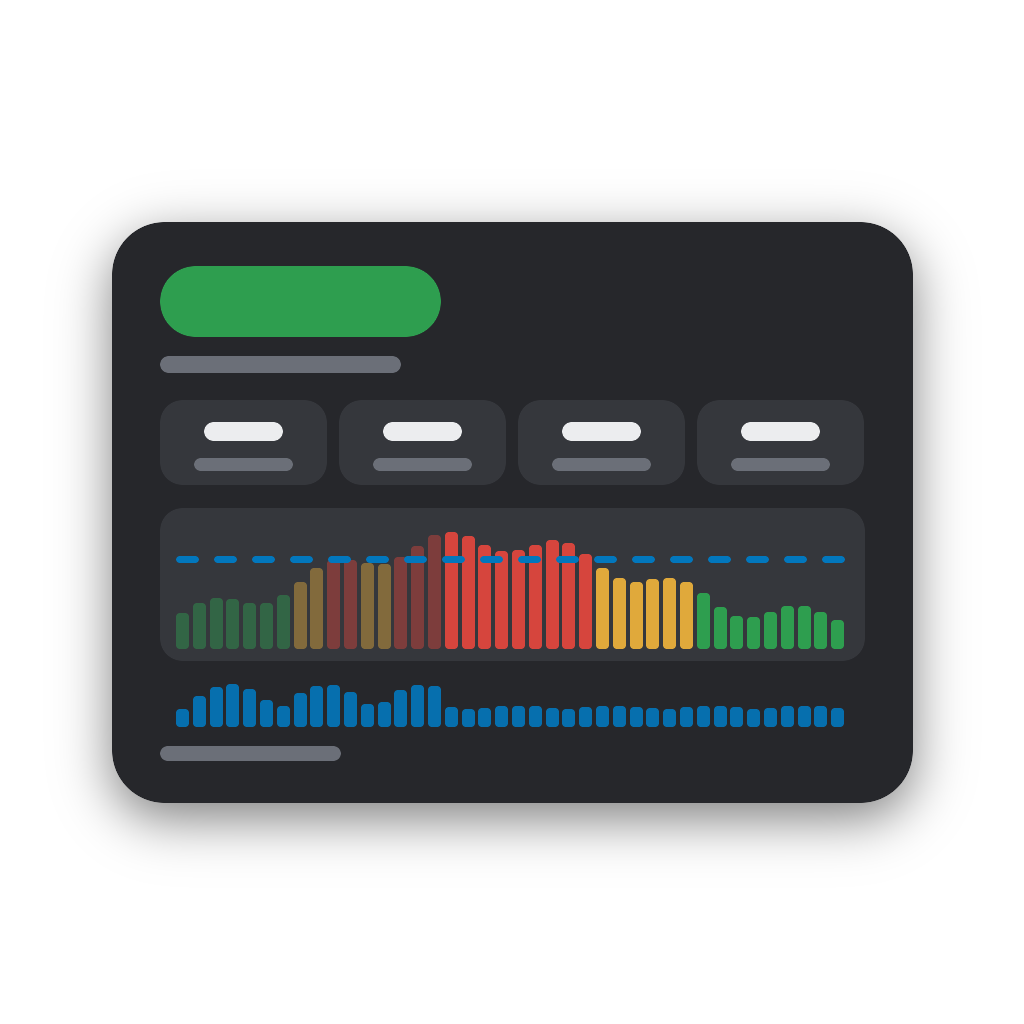
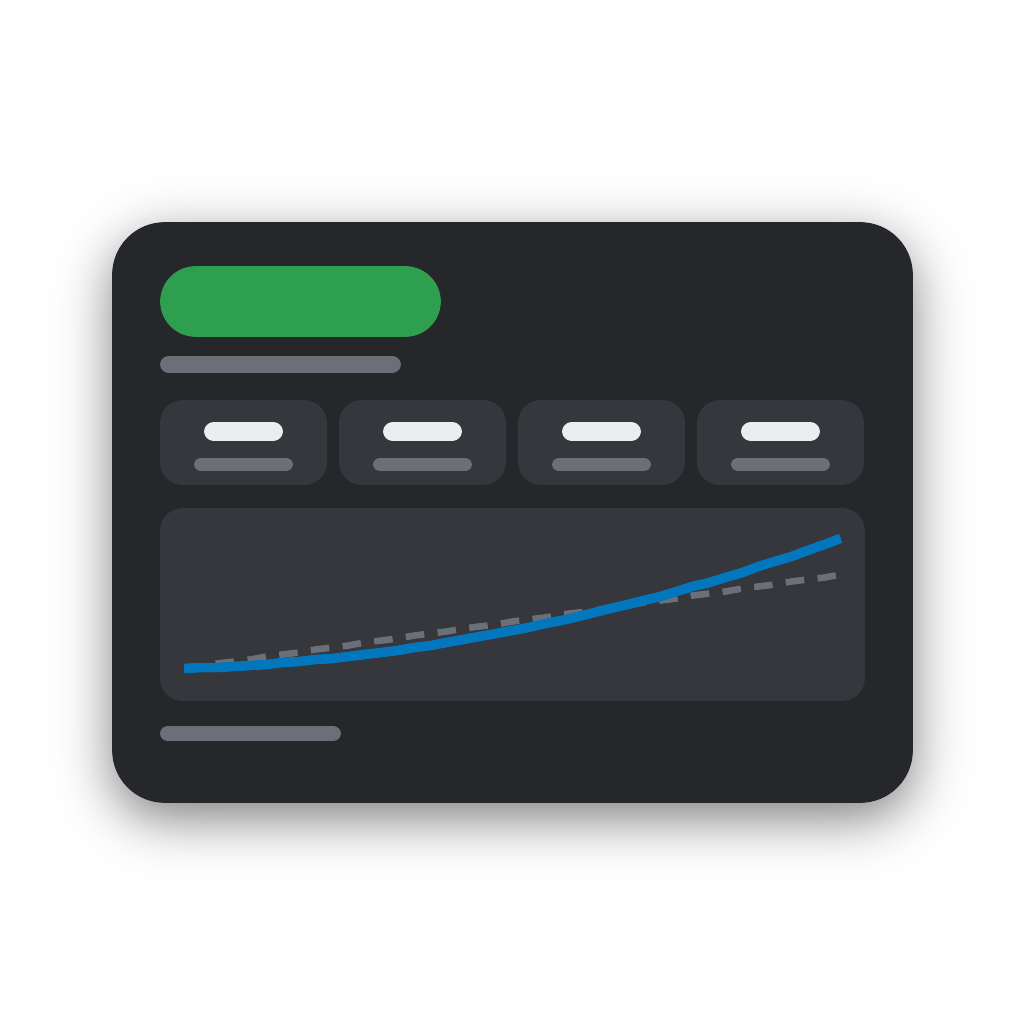
Differentiate the two widgets: cheapest block vs cost curve
The price widget now shows the cheapest 2 h block ahead (start, end,
average) above its price chart. The cost widget no longer repeats the
price bars but draws the net cost accumulated today for the dynamic
tariff against the reference tariff, with updated previews.

Changed region(s): [[0.1562, 0.5, 0.8438, 0.75]]

diff --git a/widgets/cost/public/index.html b/widgets/cost/public/index.html
@@ -68,6 +68,11 @@
     .bar.past { opacity: .5; }
     .bar.now { outline: 2px solid var(--cw-text); outline-offset: -1px; }
     .kbar { flex: 1; min-width: 1px; border-radius: 1px; background: var(--cw-ref); }
+    .curvehead { display: flex; justify-content: space-between; gap: 6px; margin-top: 10px; font-size: 10px; color: var(--cw-muted); flex-wrap: wrap; }
+    .sw { display: inline-block; width: 12px; height: 3px; vertical-align: middle; margin-right: 3px; border-radius: 2px; }
+    .sw.dash { background: var(--cw-muted); }
+    .curve { margin-top: 4px; background: var(--cw-chip-bg); border-radius: 6px; padding: 4px; }
+    .curve svg { width: 100%; height: 64px; display: block; }
     .legend { display: flex; justify-content: space-between; margin-top: 4px; font-size: 9px; color: var(--cw-muted); }
     .hint { margin-top: 10px; padding: 6px 8px; border-radius: 8px; background: var(--cw-chip-bg); color: var(--cw-muted); font-size: 11px; text-align: center; }
     .setup { padding: 4px 2px; }
@@ -113,6 +118,40 @@
       var expensive = [211, 47, 47];
       var rgb = cheap.map(function (c, i) { return Math.round(c + (expensive[i] - c) * r); });
       return 'rgb(' + rgb.join(',') + ')';
+    }
+
+    // Net cost accumulated over today for the dynamic and the reference tariff (Rp.).
+    function curveHtml(Homey, slots, hasRef) {
+      if (!slots || slots.length < 2) return '';
+      var last = -1;
+      slots.forEach(function (s, i) { if (s.isNow || s.isPast) last = i; });
+      var dyn = []; var ref = []; var cd = 0; var cr = 0;
+      slots.forEach(function (s, i) {
+        if (i > last) return;
+        var imp = s.kwh || 0; var exp = s.exp || 0;
+        if (typeof s.price === 'number') cd += imp * s.price - exp * (s.feedIn || 0);
+        if (typeof s.ref === 'number') cr += imp * s.ref - exp * (s.refFeedIn || 0);
+        dyn.push(cd); ref.push(typeof s.ref === 'number' ? cr : null);
+      });
+      var all = dyn.concat(hasRef ? ref.filter(function (v) { return v != null; }) : []).concat([0]);
+      var min = Math.min.apply(null, all); var max = Math.max.apply(null, all);
+      if (max - min < 2) max = min + 2;
+      var y = function (v) { return 100 - ((v - min) / (max - min)) * 100; };
+      var pts = function (arr) {
+        var p = [];
+        arr.forEach(function (v, i) { if (v != null) p.push((i + 0.5) + ',' + y(v).toFixed(1)); });
+        return p.join(' ');
+      };
+      var zero = '<line x1="0" x2="' + slots.length + '" y1="' + y(0).toFixed(1) + '" y2="' + y(0).toFixed(1) + '" stroke="var(--cw-border)" stroke-width="1" vector-effect="non-scaling-stroke"/>';
+      var lines = (hasRef ? '<polyline points="' + pts(ref) + '" fill="none" stroke="var(--cw-muted)" stroke-width="2" stroke-dasharray="4 3" vector-effect="non-scaling-stroke"/>' : '') +
+        '<polyline points="' + pts(dyn) + '" fill="none" stroke="var(--cw-ref)" stroke-width="2.5" vector-effect="non-scaling-stroke"/>';
+      var big = Math.max(Math.abs(cd), Math.abs(cr)) >= 100;
+      var fmtV = function (rp) { return big ? 'CHF ' + (rp / 100).toFixed(2) : rp.toFixed(1) + ' Rp.'; };
+      var idxs = [0, Math.floor((slots.length - 1) * 0.5), slots.length - 1];
+      return '<div class="curvehead"><span>' + escapeHtml(Homey.__('costWidget.curveTitle')) + '</span><span><i class="sw" style="background:var(--cw-ref)"></i>' + escapeHtml(Homey.__('costWidget.legendDyn')) + ' ' + fmtV(cd) +
+        (hasRef ? ' &nbsp;<i class="sw dash"></i>' + escapeHtml(Homey.__('costWidget.legendRef')) + ' ' + fmtV(cr) : '') + '</span></div>' +
+        '<div class="curve"><svg viewBox="0 0 ' + slots.length + ' 100" preserveAspectRatio="none">' + zero + lines + '</svg></div>' +
+        '<div class="legend">' + idxs.map(function (i) { return '<span>' + slots[i].time + '</span>'; }).join('') + '</div>';
     }
 
     function chartHtml(slots, hasRef) {
@@ -215,7 +254,7 @@
           '<div class="chip"><div class="num">' + avgDyn + '</div><div class="lbl">' + Homey.__('costWidget.avgDyn') + '</div></div>' +
           '<div class="chip"><div class="num">' + avgRef + '</div><div class="lbl">' + Homey.__('costWidget.avgRef') + '</div></div>' +
         '</div>' +
-        chartHtml(data.chart, configured);
+        curveHtml(Homey, data.chart, configured);
       resize(Homey);
     }
 

diff --git a/widgets/price/public/index.html b/widgets/price/public/index.html
@@ -58,6 +58,8 @@
       background: var(--pw-chip-bg);
     }
     .name { font-size: 11px; color: var(--pw-muted); margin-top: 2px; }
+    .cheap { margin-top: 10px; padding: 6px 8px; border-radius: 8px; background: var(--pw-chip-bg); font-size: 11px; display: flex; justify-content: space-between; gap: 8px; }
+    .cheap b { color: var(--pw-cheap); }
     .stats { display: flex; gap: 8px; margin-top: 10px; }
     .chip {
       flex: 1; display: flex; flex-direction: column; align-items: center; gap: 2px;
@@ -201,6 +203,7 @@
           '<div class="chip"><div class="num">' + fmt(data.avg) + '</div><div class="lbl">' + Homey.__('widget.avg') + '</div></div>' +
           '<div class="chip"><div class="num">' + fmt(data.max) + '</div><div class="lbl">' + Homey.__('widget.max') + '</div></div>' +
         '</div>' +
+        (data.cheapBlock ? '<div class="cheap"><span>' + escapeHtml(Homey.__('widget.cheapBlock')) + ': <b>' + (data.cheapBlock.tomorrow ? escapeHtml(Homey.__('widget.tomorrow')) + ' ' : '') + data.cheapBlock.start + '–' + data.cheapBlock.end + '</b></span><span>Ø ' + data.cheapBlock.avg.toFixed(1) + ' Rp.</span></div>' : '') +
         chartHtml(data.slots) +
         (data.noTomorrow ? '<div class="warn">⚠ ' + Homey.__('widget.noTomorrow') + '</div>' : '') +
         '<div class="footer">' +

diff --git a/drivers/innostrom/device.js b/drivers/innostrom/device.js
@@ -628,6 +628,23 @@ class InnostromDevice extends Homey.Device {
     return result;
   }
 
+  /** Cheapest contiguous block of `hours` ahead in the known data, for the price widget. */
+  getCheapBlockInfo(hours = 2) {
+    const now = new Date();
+    const end = this.priceStore.coveredUntil(now);
+    if (!end) return null;
+    const block = this.priceStore.cheapestBlock(floorToSlot(now), end, Math.round(hours * 4));
+    if (!block) return null;
+    return {
+      hours,
+      start: formatHHMM(block.start, this.tz),
+      end: formatHHMM(block.end, this.tz),
+      avg: this._toDisplay(block.avg),
+      tomorrow: localDateKey(block.start, this.tz) !== localDateKey(now, this.tz),
+      minutesUntilStart: Math.max(0, Math.round((block.start.getTime() - now.getTime()) / 60000)),
+    };
+  }
+
   /** Battery parameters for the shadow analysis (app settings, with defaults for a LUNA2000-class battery). */
   _batteryParams() {
     const p = this.homey.settings.get('battery_params') || {};

diff --git a/widgets/price/api.js b/widgets/price/api.js
@@ -26,6 +26,7 @@ module.exports = {
       noTomorrow: device.getCapabilityValue('alarm_no_tomorrow'),
       lastUpdate: device.getCapabilityValue('last_update'),
       slots: device.getChartSlots(),
+      cheapBlock: device.getCheapBlockInfo(2),
     };
   },
 

diff --git a/api.js b/api.js
@@ -99,6 +99,7 @@ module.exports = {
         fallback_price: device.getSetting('fallback_price'),
       },
       slots: device.getChartSlots(),
+      cheapBlock: device.getCheapBlockInfo(2),
     };
   },
 
